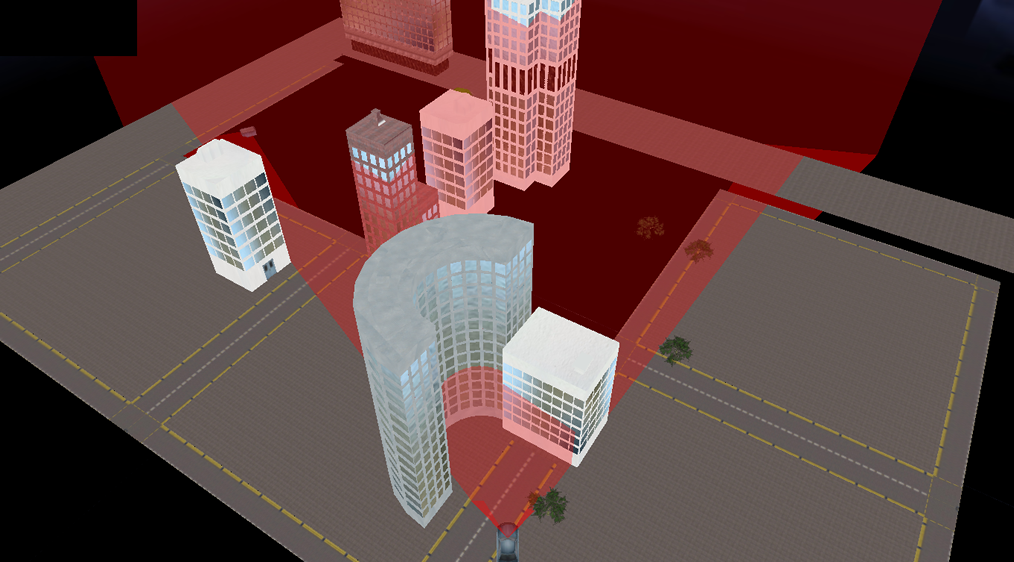
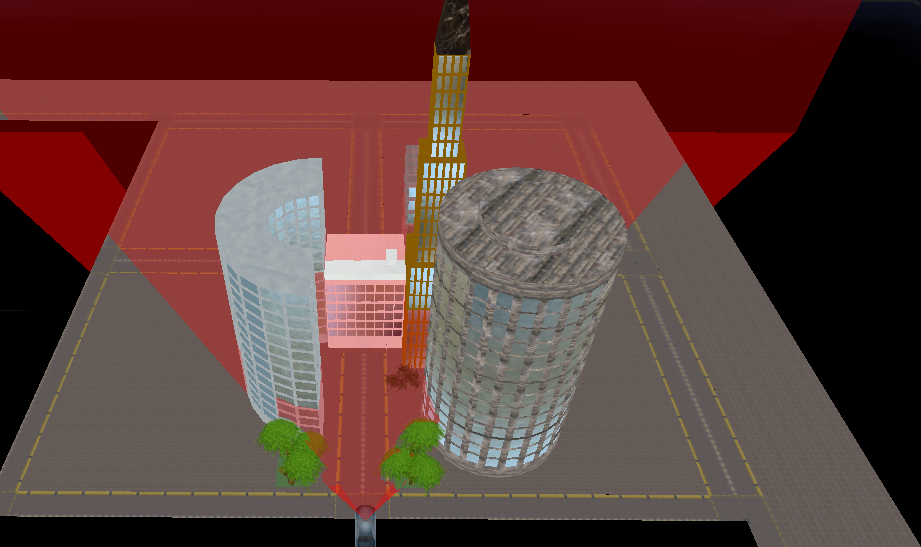
# Visibilidad cambiada de 0 a 1 # Arreglado bug de <= en reduccion

diff --git a/Examples/GpuOcclusion/ParalellOccludee/OcclusionEngineParalellOccludee.cs b/Examples/GpuOcclusion/ParalellOccludee/OcclusionEngineParalellOccludee.cs
@@ -15,6 +15,10 @@ namespace Examples.GpuOcclusion.ParalellOccludee
     /// </summary>
     public class OcclusionEngineParalellOccludee
     {
+        //Activa cosas de debug (es super lento)
+        const bool DEBUG_MODE = false;
+
+
         //The maximum number of total occludees in scene.
         int occludeesTextureSize;
         int occludeesTextureExpandedSize;
@@ -32,7 +36,7 @@ namespace Examples.GpuOcclusion.ParalellOccludee
         const int MAX_OCCLUDEE_BLOQS = 32;
 
         //Por cuanto se divide cada lado del viewport original para definir el tamaño del ZBuffer a utilizar
-        const int VIEWPORT_REDUCTION = 4;
+        const int VIEWPORT_REDUCTION = 2;
 
 
         //Z Buffer
@@ -433,8 +437,8 @@ namespace Examples.GpuOcclusion.ParalellOccludee
             d3dDevice.SetRenderState(RenderStates.ZEnable, false);
             d3dDevice.SetRenderState(RenderStates.ZBufferWriteEnable, false);
 
-            //Limpiar como todo invisible (1)
-            d3dDevice.Clear(ClearFlags.Target, ONE_COLOR, 1, 0);
+            //Limpiar como todo invisible (0)
+            d3dDevice.Clear(ClearFlags.Target, CERO_COLOR, 1, 0);
 
             //Tamaño del zBuffer en float
             float zBufferWidthF = (float)(zBufferWidth);
@@ -520,8 +524,12 @@ namespace Examples.GpuOcclusion.ParalellOccludee
 
 
                     //DEBUG
-                    //TextureLoader.Save(GuiController.Instance.ExamplesMediaDir + "paralellOccludeeOutputTexture.png", ImageFileFormat.Png, paralellOccludeeOutputTexture);
+                    if (DEBUG_MODE)
+                    {
+                        TextureLoader.Save(GuiController.Instance.ExamplesMediaDir + "paralellOccludeeOutputTexture.png", ImageFileFormat.Png, paralellOccludeeOutputTexture);
 
+                    }
+                    
 
                 }
             }
@@ -605,8 +613,8 @@ namespace Examples.GpuOcclusion.ParalellOccludee
             d3dDevice.SetRenderState(RenderStates.ZEnable, false);
             d3dDevice.SetRenderState(RenderStates.ZBufferWriteEnable, false);
 
-            //Clear the result surface with 0 values, which mean they are "visible".
-            d3dDevice.Clear(ClearFlags.Target, CERO_COLOR, 1, 0);
+            //Clear the result surface with 1 values, which mean they are "visible".
+            d3dDevice.Clear(ClearFlags.Target, ONE_COLOR, 1, 0);
             d3dDevice.EndScene();
         }
 
@@ -629,8 +637,8 @@ namespace Examples.GpuOcclusion.ParalellOccludee
             d3dDevice.SetRenderState(RenderStates.ZEnable, false);
             d3dDevice.SetRenderState(RenderStates.ZBufferWriteEnable, false);
 
-            //Limpiar como todo invisible (1)
-            d3dDevice.Clear(ClearFlags.Target, ONE_COLOR, 1, 0);
+            //Limpiar como todo invisible (0)
+            d3dDevice.Clear(ClearFlags.Target, CERO_COLOR, 1, 0);
 
             //Parametros de shader
             occlusionEffect.Technique = "Reduce1erPass";
@@ -655,8 +663,10 @@ namespace Examples.GpuOcclusion.ParalellOccludee
 
 
             //DEBUG
-            //TextureLoader.Save(GuiController.Instance.ExamplesMediaDir + "halfReduceOccludeeTexture.png", ImageFileFormat.Png, halfReduceOccludeeTexture);
-
+            if (DEBUG_MODE)
+            {
+                TextureLoader.Save(GuiController.Instance.ExamplesMediaDir + "halfReduceOccludeeTexture.png", ImageFileFormat.Png, halfReduceOccludeeTexture);
+            }
 
             d3dDevice.EndScene();
         }
@@ -679,8 +689,8 @@ namespace Examples.GpuOcclusion.ParalellOccludee
             d3dDevice.SetRenderState(RenderStates.ZEnable, false);
             d3dDevice.SetRenderState(RenderStates.ZBufferWriteEnable, false);
 
-            //Limpiar como todo invisible (1)
-            d3dDevice.Clear(ClearFlags.Target, ONE_COLOR, 1, 0);
+            //Limpiar como todo invisible (0)
+            d3dDevice.Clear(ClearFlags.Target, CERO_COLOR, 1, 0);
 
             //Parametros de shader
             occlusionEffect.Technique = "Reduce2doPass";
@@ -704,7 +714,10 @@ namespace Examples.GpuOcclusion.ParalellOccludee
 
 
             //DEBUG
-            //TextureLoader.Save(GuiController.Instance.ExamplesMediaDir + "occlusionResultTex.png", ImageFileFormat.Png, occlusionResultTex);
+            if (DEBUG_MODE)
+            {
+                TextureLoader.Save(GuiController.Instance.ExamplesMediaDir + "occlusionResultTex.png", ImageFileFormat.Png, occlusionResultTex);
+            }
 
 
             d3dDevice.EndScene();
@@ -748,7 +761,7 @@ namespace Examples.GpuOcclusion.ParalellOccludee
             bool[] visibilityData = new bool[textureValues.Length];
             for (int i = 0; i < textureValues.Length; i++)
             {
-                visibilityData[i] = textureValues[i] == 0.0f ? true : false;
+                visibilityData[i] = textureValues[i] == 1.0f ? true : false;
             }
 
             return visibilityData;

diff --git a/Examples/GpuOcclusion/ParalellOccludee/DemoCiudadArriba.cs b/Examples/GpuOcclusion/ParalellOccludee/DemoCiudadArriba.cs
@@ -72,7 +72,7 @@ namespace Examples.GpuOcclusion.ParalellOccludee
 
 
             //Cargar shader para render de meshes (mas info de occlusion)
-            effect = ShaderUtils.loadEffect(GuiController.Instance.ExamplesMediaDir + "Shaders\\OccludeesShader.fx");
+            effect = ShaderUtils.loadEffect(GuiController.Instance.ExamplesMediaDir + "Shaders\\ParalellOccludee\\OccludeesShader.fx");
             effect.Technique = "RenderWithOcclusionEnabled";
 
             //Cargar ciudad
@@ -306,21 +306,11 @@ namespace Examples.GpuOcclusion.ParalellOccludee
                 }
             }
 
-
-            //Dibujar Frustum
-            frustum.updateVolume(fpsView, d3dDevice.Transform.Projection);
-            frustum.render();
-
-
-            //Meshes visibles
-            GuiController.Instance.UserVars["frus"] = occlusionEngine.EnabledOccludees.Count + "/" + occlusionEngine.Occludees.Count;
-
-
             //Debug: contar la cantidad de objetos occluidos (es lento)
             bool countOcclusion = (bool)GuiController.Instance.Modifiers["countOcclusion"];
             if (countOcclusion)
             {
-                d3dDevice.RenderState.ZBufferEnable = false;
+                //d3dDevice.RenderState.ZBufferEnable = false;
                 bool[] data = occlusionEngine.getVisibilityData();
                 int n = 0;
                 for (int i = 0; i < data.Length; i++)
@@ -334,13 +324,24 @@ namespace Examples.GpuOcclusion.ParalellOccludee
                         occlusionEngine.EnabledOccludees[i].BoundingBox.render();
                     }
                 }
-                d3dDevice.RenderState.ZBufferEnable = true;
+                //d3dDevice.RenderState.ZBufferEnable = true;
                 GuiController.Instance.UserVars["occ"] = n + "/" + occlusionEngine.EnabledOccludees.Count;
             }
             else
             {
                 GuiController.Instance.UserVars["occ"] = "-";
             }
+
+            //Dibujar Frustum
+            frustum.updateVolume(fpsView, d3dDevice.Transform.Projection);
+            frustum.render();
+
+
+            //Meshes visibles
+            GuiController.Instance.UserVars["frus"] = occlusionEngine.EnabledOccludees.Count + "/" + occlusionEngine.Occludees.Count;
+
+
+            
 
 
 

diff --git a/Examples/GpuOcclusion/ParalellOccludee/TestCiudad.cs b/Examples/GpuOcclusion/ParalellOccludee/TestCiudad.cs
@@ -58,8 +58,7 @@ namespace Examples.GpuOcclusion.ParalellOccludee
 
 
             //Cargar shader para render de meshes (mas info de occlusion)
-            //effect = ShaderUtils.loadEffect(GuiController.Instance.ExamplesMediaDir + "Shaders\\ParalellOccludee\\OccludeesShader.fx");
-            effect = ShaderUtils.loadEffect(GuiController.Instance.ExamplesMediaDir + "Shaders\\OccludeesShader.fx");
+            effect = ShaderUtils.loadEffect(GuiController.Instance.ExamplesMediaDir + "Shaders\\ParalellOccludee\\OccludeesShader.fx");
             effect.Technique = "RenderWithOcclusionEnabled";
 
 

diff --git a/Examples/GpuOcclusion/ParalellOccludee/TestParalellOccludee.cs b/Examples/GpuOcclusion/ParalellOccludee/TestParalellOccludee.cs
@@ -57,7 +57,7 @@ namespace Examples.GpuOcclusion.ParalellOccludee
             occlusionEngine = new OcclusionEngineParalellOccludee();
 
             //Cargar shader para render de meshes (mas info de occlusion)
-            effect = ShaderUtils.loadEffect(GuiController.Instance.ExamplesMediaDir + "Shaders\\OccludeesShader.fx");
+            effect = ShaderUtils.loadEffect(GuiController.Instance.ExamplesMediaDir + "Shaders\\ParalellOccludee\\OccludeesShader.fx");
             effect.Technique = "RenderWithOcclusionEnabled";
 
 

diff --git a/Examples/GpuOcclusion/ParalellOccludee/TestEscenarioChico.cs b/Examples/GpuOcclusion/ParalellOccludee/TestEscenarioChico.cs
@@ -58,7 +58,7 @@ namespace Examples.GpuOcclusion.ParalellOccludee
 
 
             //Cargar shader para render de meshes (mas info de occlusion)
-            effect = ShaderUtils.loadEffect(GuiController.Instance.ExamplesMediaDir + "Shaders\\OccludeesShader.fx");
+            effect = ShaderUtils.loadEffect(GuiController.Instance.ExamplesMediaDir + "Shaders\\ParalellOccludee\\OccludeesShader.fx");
             effect.Technique = "RenderWithOcclusionEnabled";
 
 

diff --git a/Examples/GpuOcclusion/ParalellOccludee/TestCiudadReadBack.cs b/Examples/GpuOcclusion/ParalellOccludee/TestCiudadReadBack.cs
@@ -57,7 +57,7 @@ namespace Examples.GpuOcclusion.ParalellOccludee
 
 
             //Cargar shader para render de meshes (mas info de occlusion)
-            effect = ShaderUtils.loadEffect(GuiController.Instance.ExamplesMediaDir + "Shaders\\ParalellOccludee\\OccludeesShaderReadBack.fx");
+            effect = ShaderUtils.loadEffect(GuiController.Instance.ExamplesMediaDir + "Shaders\\ParalellOccludee\\OccludeesShader.fx");
 
 
             //Cargar ciudad
